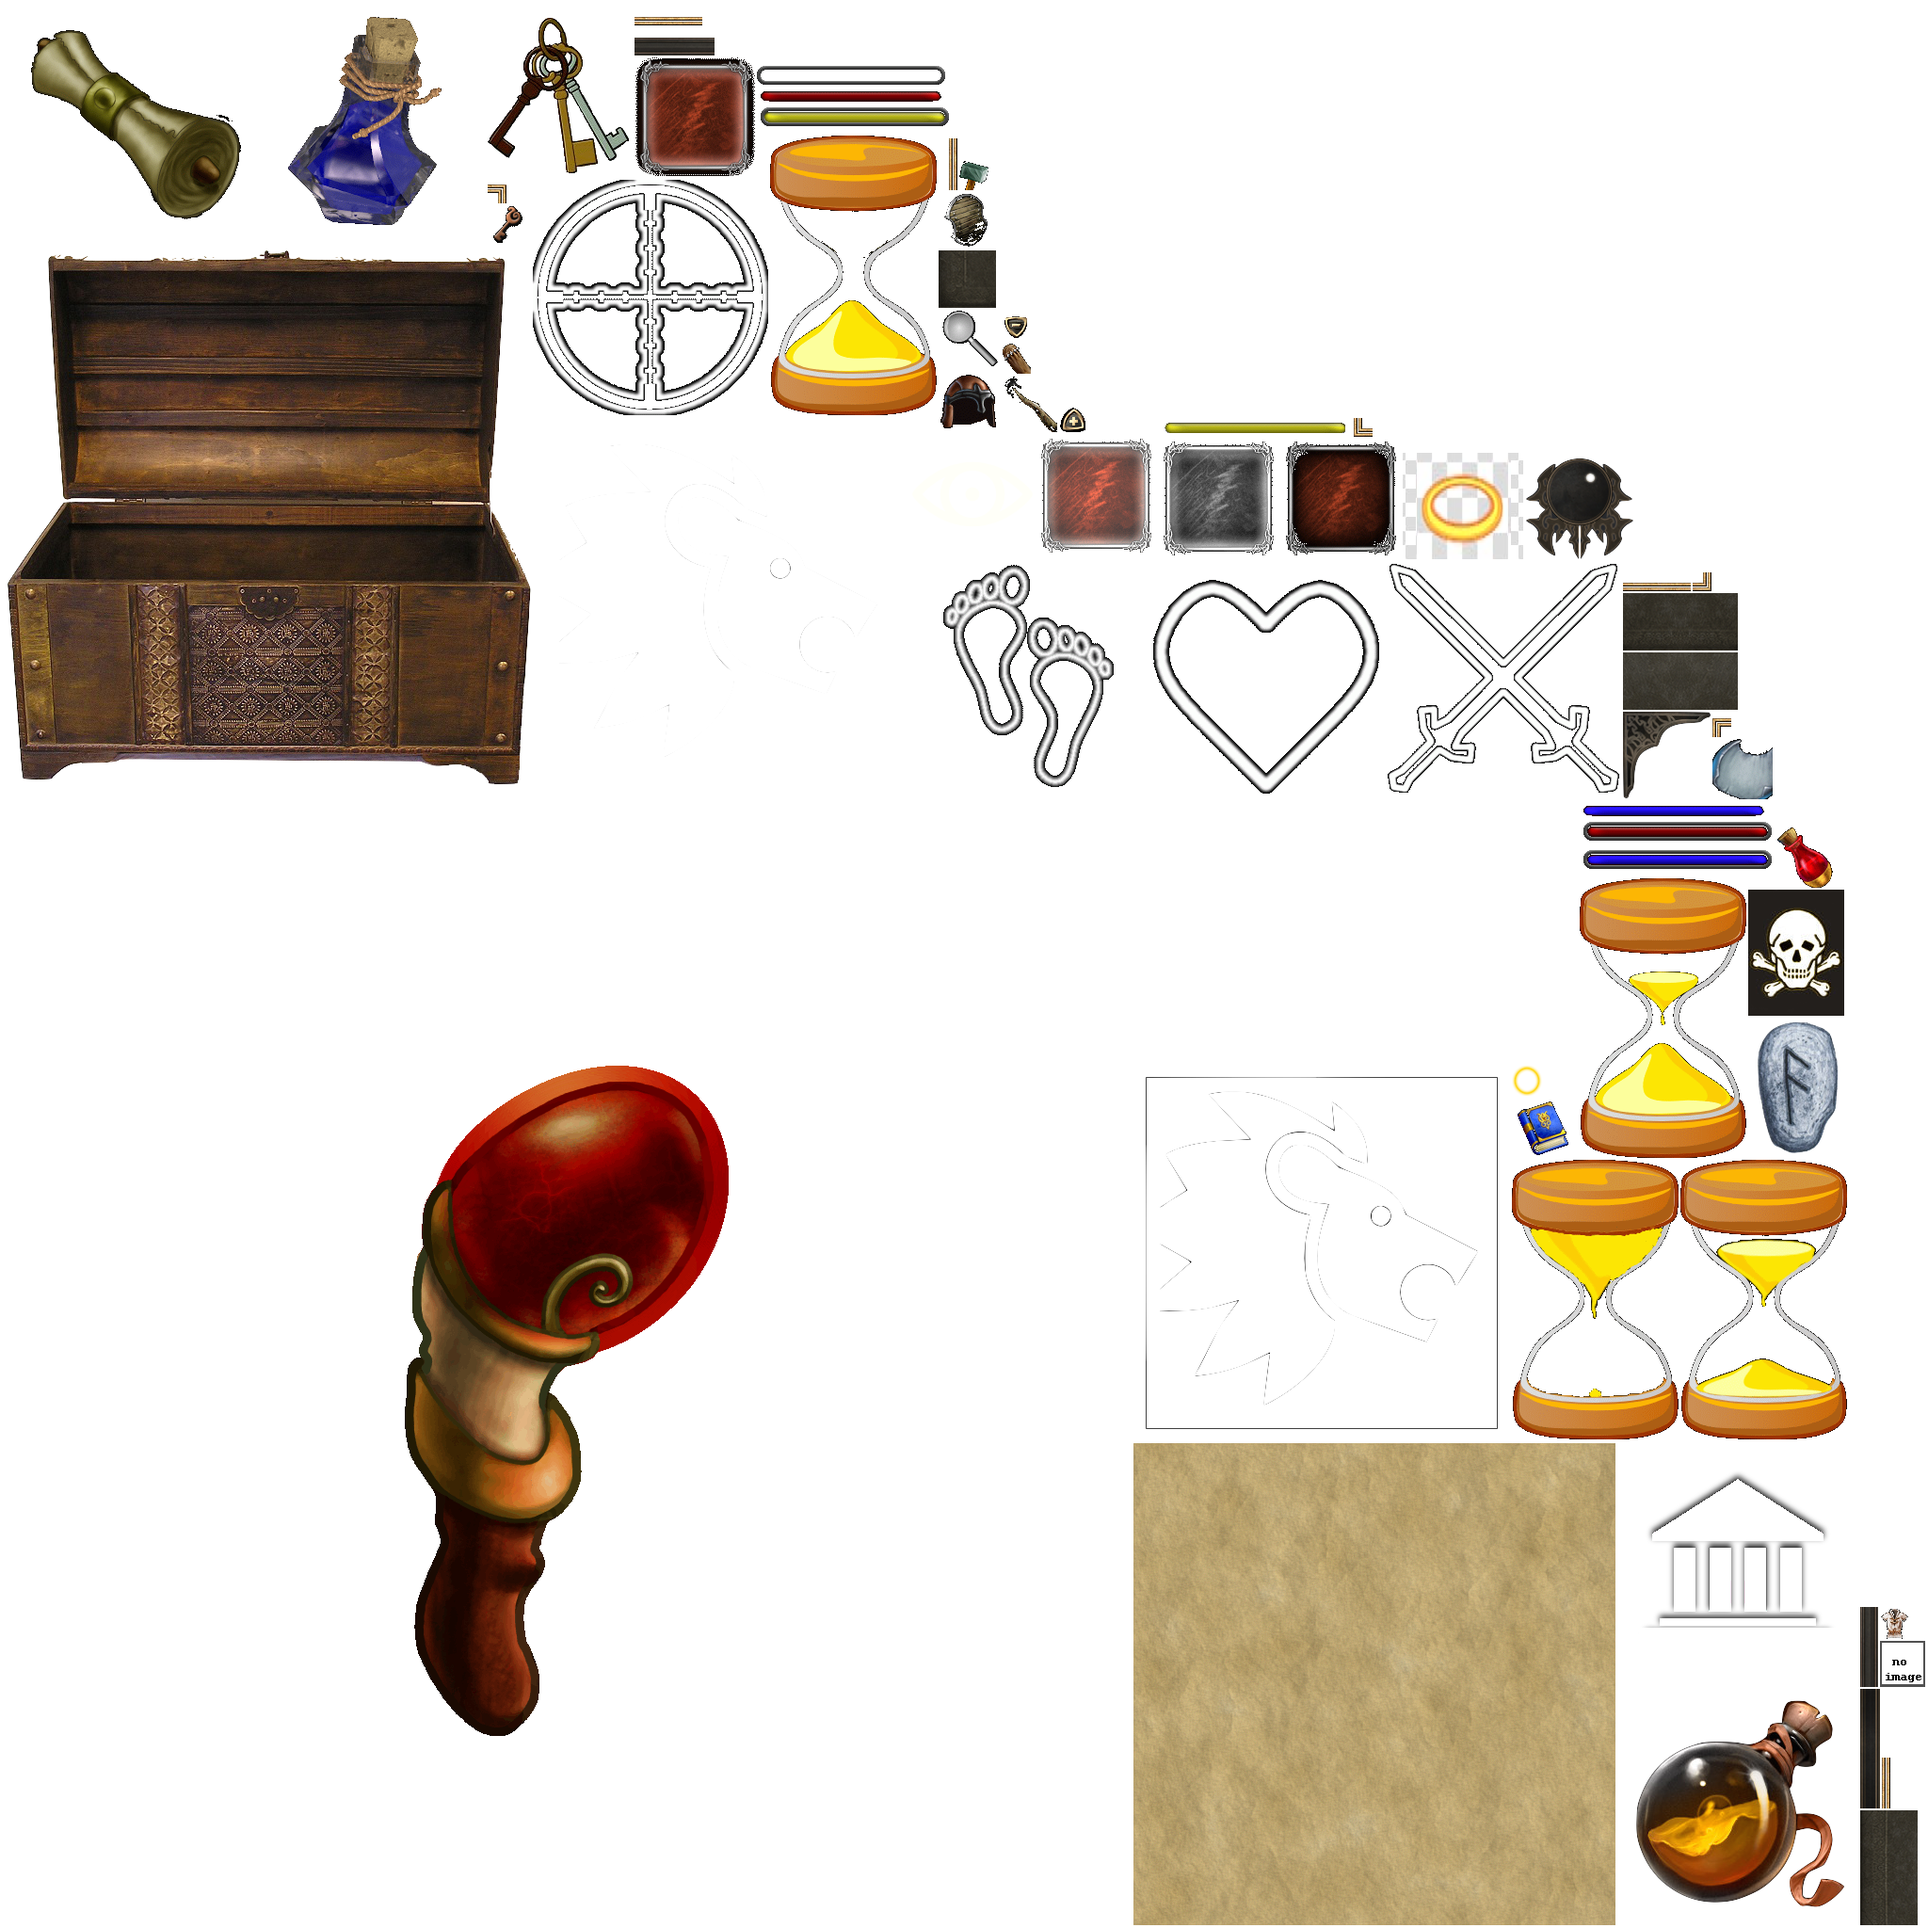
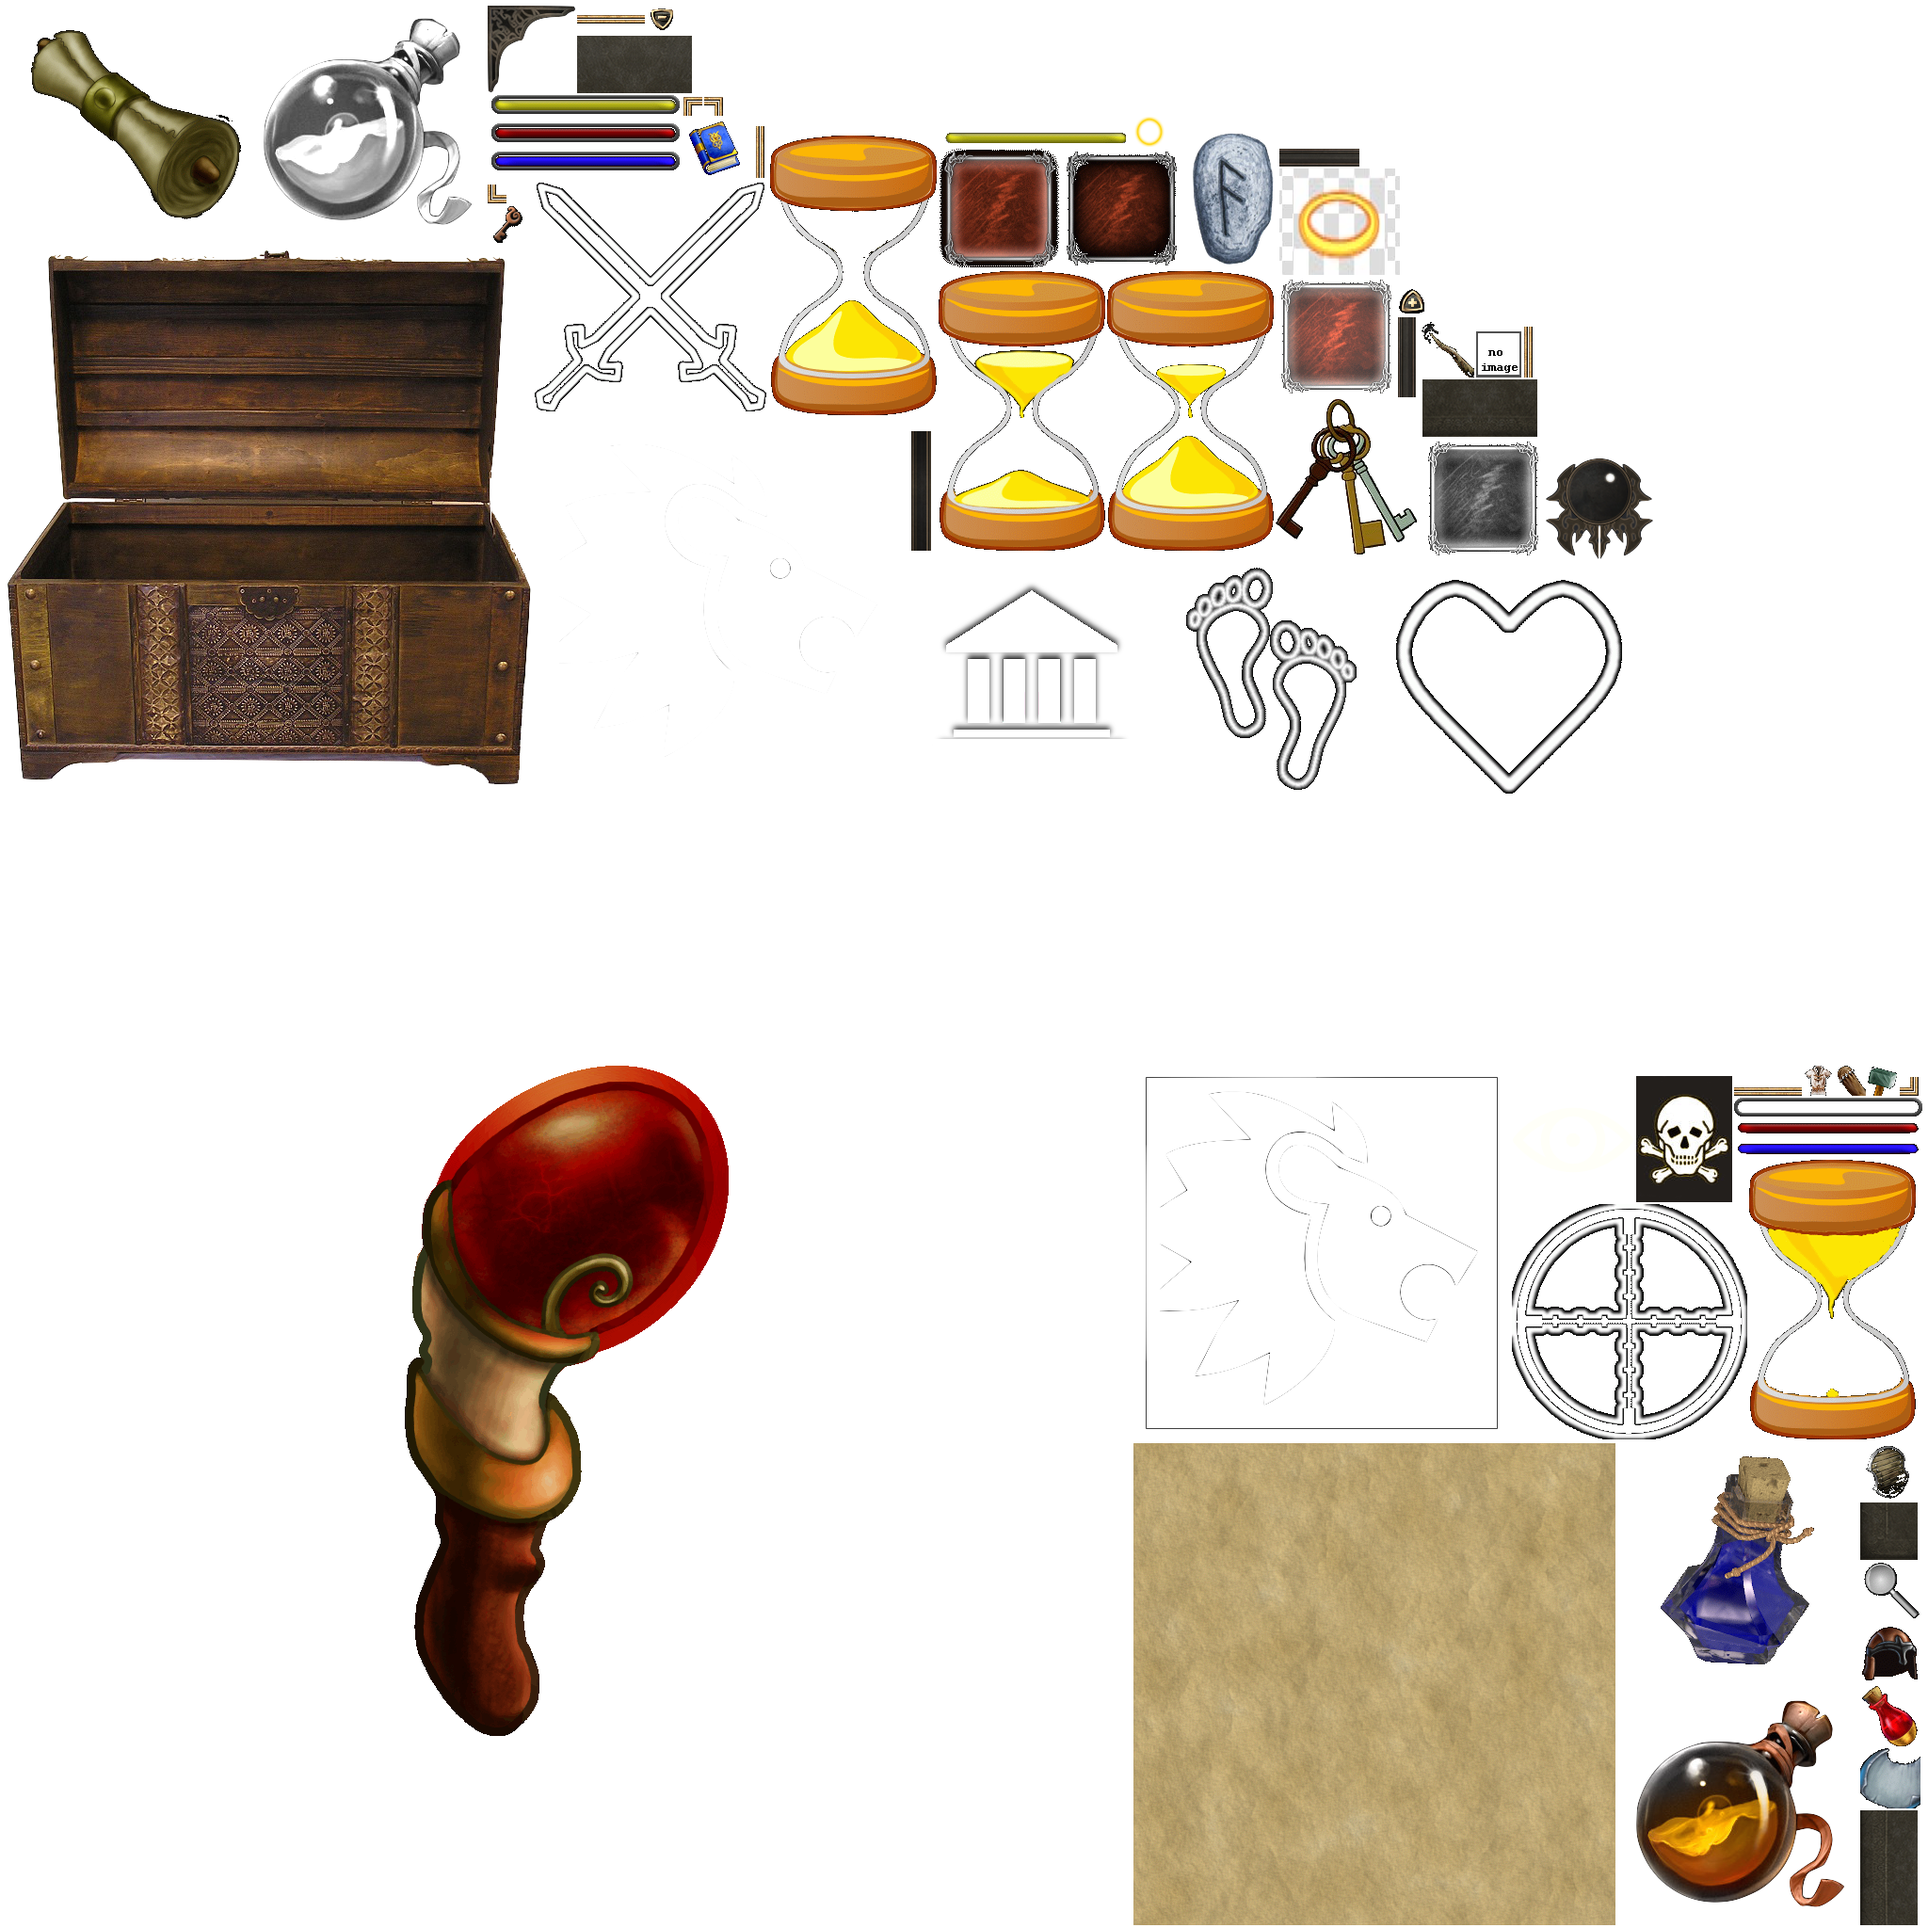
showing dust and AP costs in activity buttons

Changed region(s): [[0.125, 0.0, 1.0, 0.9375]]

diff --git a/Libgdx-Dungeon/src/main/java/de/jdungeon/gui/thumb/LibgdxActivityGUIElement.java b/Libgdx-Dungeon/src/main/java/de/jdungeon/gui/thumb/LibgdxActivityGUIElement.java
@@ -1,12 +1,20 @@
 package de.jdungeon.gui.thumb;
 
+import com.badlogic.gdx.graphics.Color;
+import com.badlogic.gdx.graphics.g2d.BitmapFont;
+import com.badlogic.gdx.graphics.g2d.SpriteBatch;
+import com.badlogic.gdx.graphics.g2d.TextureAtlas;
 import dungeon.JDPoint;
 import figure.action.result.ActionResult;
 import util.JDDimension;
 
 import de.jdungeon.app.audio.AudioManagerTouchGUI;
+import de.jdungeon.app.gui.GUIImageManager;
+import de.jdungeon.asset.Assets;
+import de.jdungeon.game.Colors;
 import de.jdungeon.gui.activity.Activity;
 import de.jdungeon.gui.ImageLibgdxGUIElement;
+import de.jdungeon.gui.activity.ActivityPlan;
 
 /**
  * @author Jochen Reutelshoefer (denkbares GmbH)
@@ -35,6 +43,72 @@ public class LibgdxActivityGUIElement extends ImageLibgdxGUIElement {
 		else return bgInactiveImage;
 	}
 
+	@Override
+	public void paint(SpriteBatch batch) {
+		super.paint(batch);
+		ActionResult possibleState = activity.possible();
+		ActivityPlan executionPlan = activity.createExecutionPlan();
+
+		int tileWidth = this.getDimension().getWidth();
+		int tileHeight = this.getDimension().getHeight();
+
+		int dustCosts = executionPlan.totalDustCosts();
+		if(dustCosts > 0 && (possibleState == ActionResult.POSSIBLE || possibleState == ActionResult.DUST)) {
+			float scaleFactorDust = 1.9f;
+			if(possibleState == ActionResult.POSSIBLE) {
+				drawIconAndValue(batch, scaleFactorDust, tileWidth, tileHeight, GUIImageManager.POTION_DUST, dustCosts, true, false);
+			}
+			if(possibleState == ActionResult.DUST) {
+				drawIconAndValue(batch,  scaleFactorDust, tileWidth, tileHeight, GUIImageManager.POTION_DUST_SW, dustCosts, true, true);
+			}
+
+		}
+		if(executionPlan.getLength() > 1 && possibleState == ActionResult.POSSIBLE) {
+			float scaleFactorHourGlass = 2.2f;
+			drawIconAndValue(batch,  scaleFactorHourGlass, tileWidth, tileHeight, GUIImageManager.HOUR_GLASS_EMPTY, executionPlan.getLength(),false, false);
+		}
+
+	}
+
+	private void drawIconAndValue(SpriteBatch batch, float scaleFactor, int tileWidth, int tileHeight, String image, int value, boolean right, boolean fontColorRed) {
+		int x = this.position.getX() + relativeOffsetX;
+		int y = this.position.getY() + relativeOffsetY;
+		int width = this.dimension.getWidth();
+
+		TextureAtlas.AtlasRegion atlasRegionDust = Assets.instance.getAtlasRegion(image, Assets.instance.getGuiAtlas());
+		float dustWidthScale = ((float)atlasRegionDust.originalWidth) / atlasRegionDust.originalHeight;
+		float dustIconWidth = tileWidth / scaleFactor * dustWidthScale;
+
+		int xPositionDustIcon = (int) ( x + width - 2*dustIconWidth/3);
+		int xPositionDustNumber = (int) (xPositionDustIcon + dustIconWidth/2 - 5);
+		if(!right) {
+			xPositionDustIcon = (int) (x - dustIconWidth/3);
+			xPositionDustNumber = (int) (xPositionDustIcon + dustIconWidth/2 - 3);
+		}
+
+		float dustIconHeight = tileHeight / scaleFactor;
+		int yPositionDustIcon = (int) (y - dustIconHeight / 3);
+		batch.draw(atlasRegionDust, xPositionDustIcon, yPositionDustIcon,
+				dustIconWidth,
+				dustIconHeight);
+
+		int yPositionDustNumber = (int) (yPositionDustIcon + dustIconHeight / 2 - 5);
+		BitmapFont font = Assets.instance.fonts.defaultNormalFlipped;
+
+		// store normal font color
+		Color baseColor = new Color(font.getColor());
+		if(fontColorRed) {
+			font.setColor(Color.RED);
+		}
+
+		// actually draw number; todo: use GlyphLayout
+		font.draw(batch, "" + value, xPositionDustNumber, yPositionDustNumber);
+
+		// restore normal font color
+		if(fontColorRed) {
+			font.setColor(baseColor);
+		}
+	}
 
 	@Override
 	public boolean isVisible() {

diff --git a/Libgdx-Dungeon/src/main/java/de/jdungeon/gui/ImageLibgdxGUIElement.java b/Libgdx-Dungeon/src/main/java/de/jdungeon/gui/ImageLibgdxGUIElement.java
@@ -16,8 +16,8 @@ public abstract class ImageLibgdxGUIElement extends AbstractLibgdxGUIElement {
 
 	private final String filename;
 	protected final String backGround;
-	private int relativeOffsetX = 0;
-	private int relativeOffsetY = 0;
+	protected int relativeOffsetX = 0;
+	protected int relativeOffsetY = 0;
 
 	public ImageLibgdxGUIElement(JDPoint position, JDDimension dimension, String im) {
 		this(position, dimension, im, null);
@@ -62,7 +62,7 @@ public abstract class ImageLibgdxGUIElement extends AbstractLibgdxGUIElement {
 
 	}
 
-	protected void drawBackground(SpriteBatch batch, int x, int y, int width, int height) {
+	private void drawBackground(SpriteBatch batch, int x, int y, int width, int height) {
 		// draw background
 		TextureAtlas.AtlasRegion backGroundRegion = null;
 		if(backGround != null) {
@@ -78,11 +78,4 @@ public abstract class ImageLibgdxGUIElement extends AbstractLibgdxGUIElement {
 		return backGround;
 	}
 
-	public void setRelativeOffsetY(int relativeOffsetY) {
-		this.relativeOffsetY = relativeOffsetY;
-	}
-
-	public void setRelativeOffsetX(int relativeOffsetX) {
-		this.relativeOffsetX = relativeOffsetX;
-	}
 }

diff --git a/Dungeon-Core/src/main/java/skill/Skill.java b/Dungeon-Core/src/main/java/skill/Skill.java
@@ -1,5 +1,7 @@
 package skill;
 
+import java.io.Serializable;
+
 import dungeon.Room;
 import figure.Figure;
 import figure.FigureInfo;
@@ -9,7 +11,7 @@ import figure.action.result.ActionResult;
  * @author Jochen Reutelshoefer (denkbares GmbH)
  * @created 10.04.20.
  */
-public abstract class Skill<ACTION extends SkillAction> {
+public abstract class Skill<ACTION extends SkillAction> implements Serializable {
 
 	private int dustCosts = 0;
 
@@ -24,6 +26,7 @@ public abstract class Skill<ACTION extends SkillAction> {
 		Figure actor = action.getActor();
 		if(actor == null) return ActionResult.OTHER; // hero death problem
 		Room room = actor.getRoom();
+		if(room == null) return ActionResult.OTHER; // exit dungeon problem
 		boolean fightRunning = room.fightRunning();
 		if(!isPossibleFight() && Boolean.TRUE.equals(fightRunning)) {
 			return ActionResult.MODE;
@@ -67,4 +70,7 @@ public abstract class Skill<ACTION extends SkillAction> {
 
 	public abstract <BUILDER extends ActionBuilder<?, ACTION>> BUILDER newActionFor(FigureInfo actor);
 
+	public int getDustCosts() {
+		return dustCosts;
+	}
 }

diff --git a/Libgdx-Dungeon/src/main/java/de/jdungeon/gui/activity/SimpleActivityPlan.java b/Libgdx-Dungeon/src/main/java/de/jdungeon/gui/activity/SimpleActivityPlan.java
@@ -5,6 +5,8 @@ import java.util.Collections;
 import java.util.List;
 
 import figure.action.Action;
+import figure.action.SpellAction;
+import skill.SkillAction;
 
 /**
  * @author Jochen Reutelshoefer (denkbares GmbH)
@@ -40,5 +42,25 @@ public class SimpleActivityPlan implements ActivityPlan {
 	@Override
 	public boolean isCompleted() {
 		return actionSequence.isEmpty();
+	}
+
+	@Override
+	public int getLength() {
+		return actionSequence.size();
+	}
+
+	@Override
+	public int totalDustCosts() {
+		// sum up all costs of all actions in the plan
+		int costs = 0;
+		for (Action action : actionSequence) {
+			if(action instanceof SkillAction) {
+				costs += ((SkillAction)action).getSkill().getDustCosts();
+			}
+			if(action instanceof SpellAction) {
+				 costs += ((SpellAction) action).getSpell().getCost();
+			}
+		}
+		return costs;
 	}
 }

diff --git a/Libgdx-Dungeon/src/main/java/de/jdungeon/gui/activity/ActivityPlan.java b/Libgdx-Dungeon/src/main/java/de/jdungeon/gui/activity/ActivityPlan.java
@@ -8,9 +8,38 @@ import figure.action.Action;
  */
 public interface ActivityPlan<ACTIVITY extends Activity> {
 
+	/**
+	 * The origin activity that created this plan
+	 *
+	 * @return origin activity
+	 */
 	ACTIVITY getActivity();
 
+	/**
+	 * The next action the execute the plan
+	 *
+	 * @return next action
+	 */
 	Action getNextAction();
 
+	/**
+	 * true if plan is completed, i. e. all actions have been fetched
+	 *
+	 * @return true if completed, false otherwise
+	 */
 	boolean isCompleted();
+
+	/**
+	 * The length of the plan, i. e. number of action to be performed.
+	 *
+	 * @return length of the plan
+	 */
+	int getLength();
+
+	/**
+	 * The total amount of dust costs for all actions to be performed.
+	 *
+	 * @return amount of dust cost
+	 */
+	int totalDustCosts();
 }

diff --git a/Dungeon-FrontEnd-TouchGUI/src/main/java/de/jdungeon/app/gui/InventoryImageManager.java b/Dungeon-FrontEnd-TouchGUI/src/main/java/de/jdungeon/app/gui/InventoryImageManager.java
@@ -53,7 +53,7 @@ public class InventoryImageManager {
 		itemClassImageMap.put(Thing.class,  guiImageManager.getJDImageProxy(GUIImageManager.MANA_BATTERY));
 		itemClassImageMap.put(Key.class,  guiImageManager.getJDImageProxy("guiItems/key.gif"));
 		itemClassImageMap.put(MoonRune.class,  guiImageManager.getJDImageProxy("guiItems/mondrune.png"));
-		itemClassImageMap.put(DustItem.class,  guiImageManager.getJDImageProxy("guiItems/Zauberstaub.png"));
+		itemClassImageMap.put(DustItem.class,  guiImageManager.getJDImageProxy(GUIImageManager.POTION_DUST));
 	}
 
 	private final GUIImageManager guiImageManager;

diff --git a/Dungeon-FrontEnd-TouchGUI/src/main/java/de/jdungeon/app/gui/GUIImageManager.java b/Dungeon-FrontEnd-TouchGUI/src/main/java/de/jdungeon/app/gui/GUIImageManager.java
@@ -19,6 +19,8 @@ public class GUIImageManager {
 	public static final String PARCHMENT = "guiItems/Parchment.gif";
 	public static final String MANA_BATTERY = "guiItems/ManaBattery.gif";
 	public static final String POTION = "guiItems/Potion.gif";
+	public static final String POTION_DUST = "guiItems/Zauberstaub.png";
+	public static final String POTION_DUST_SW = "guiItems/ZauberstaubSW.png";
 	public static final String BUNCH = "guiItems/bunch2.gif";
 	public static final String POTION_BLUE = "guiItems/mana-potion.gif";
 	public static final String ATTACK_SWORD = "guiItems/attack-sword.gif";
